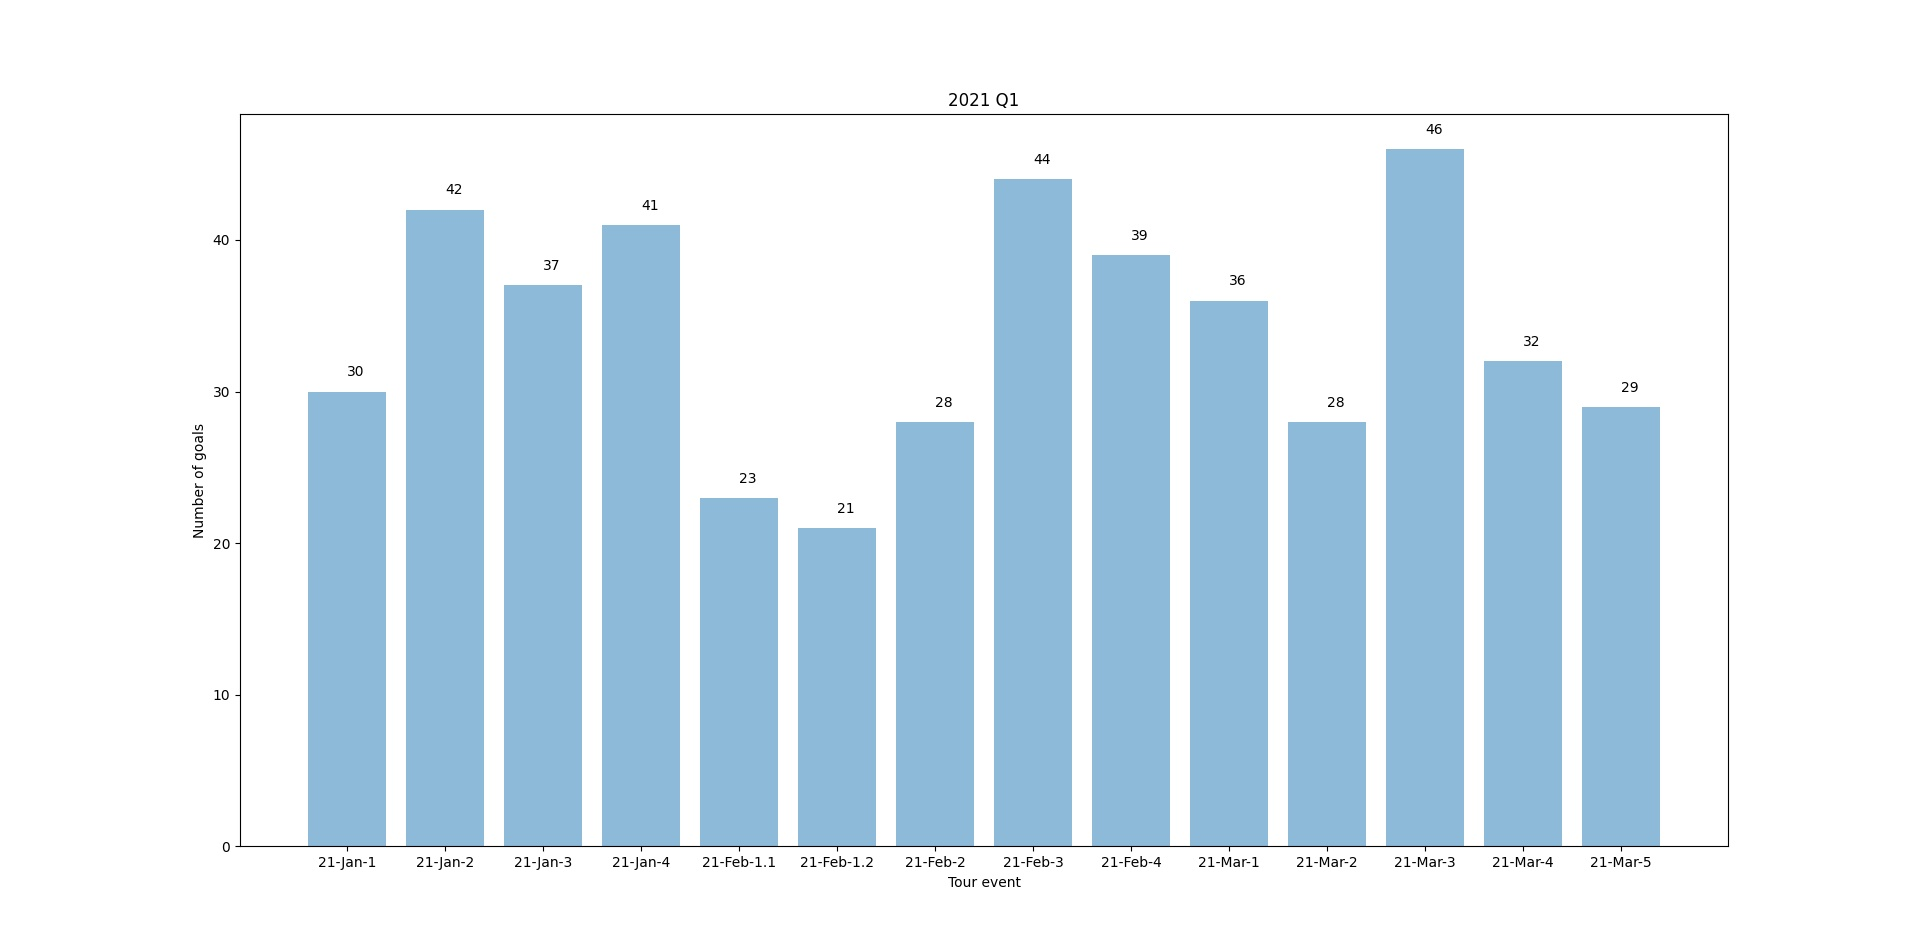
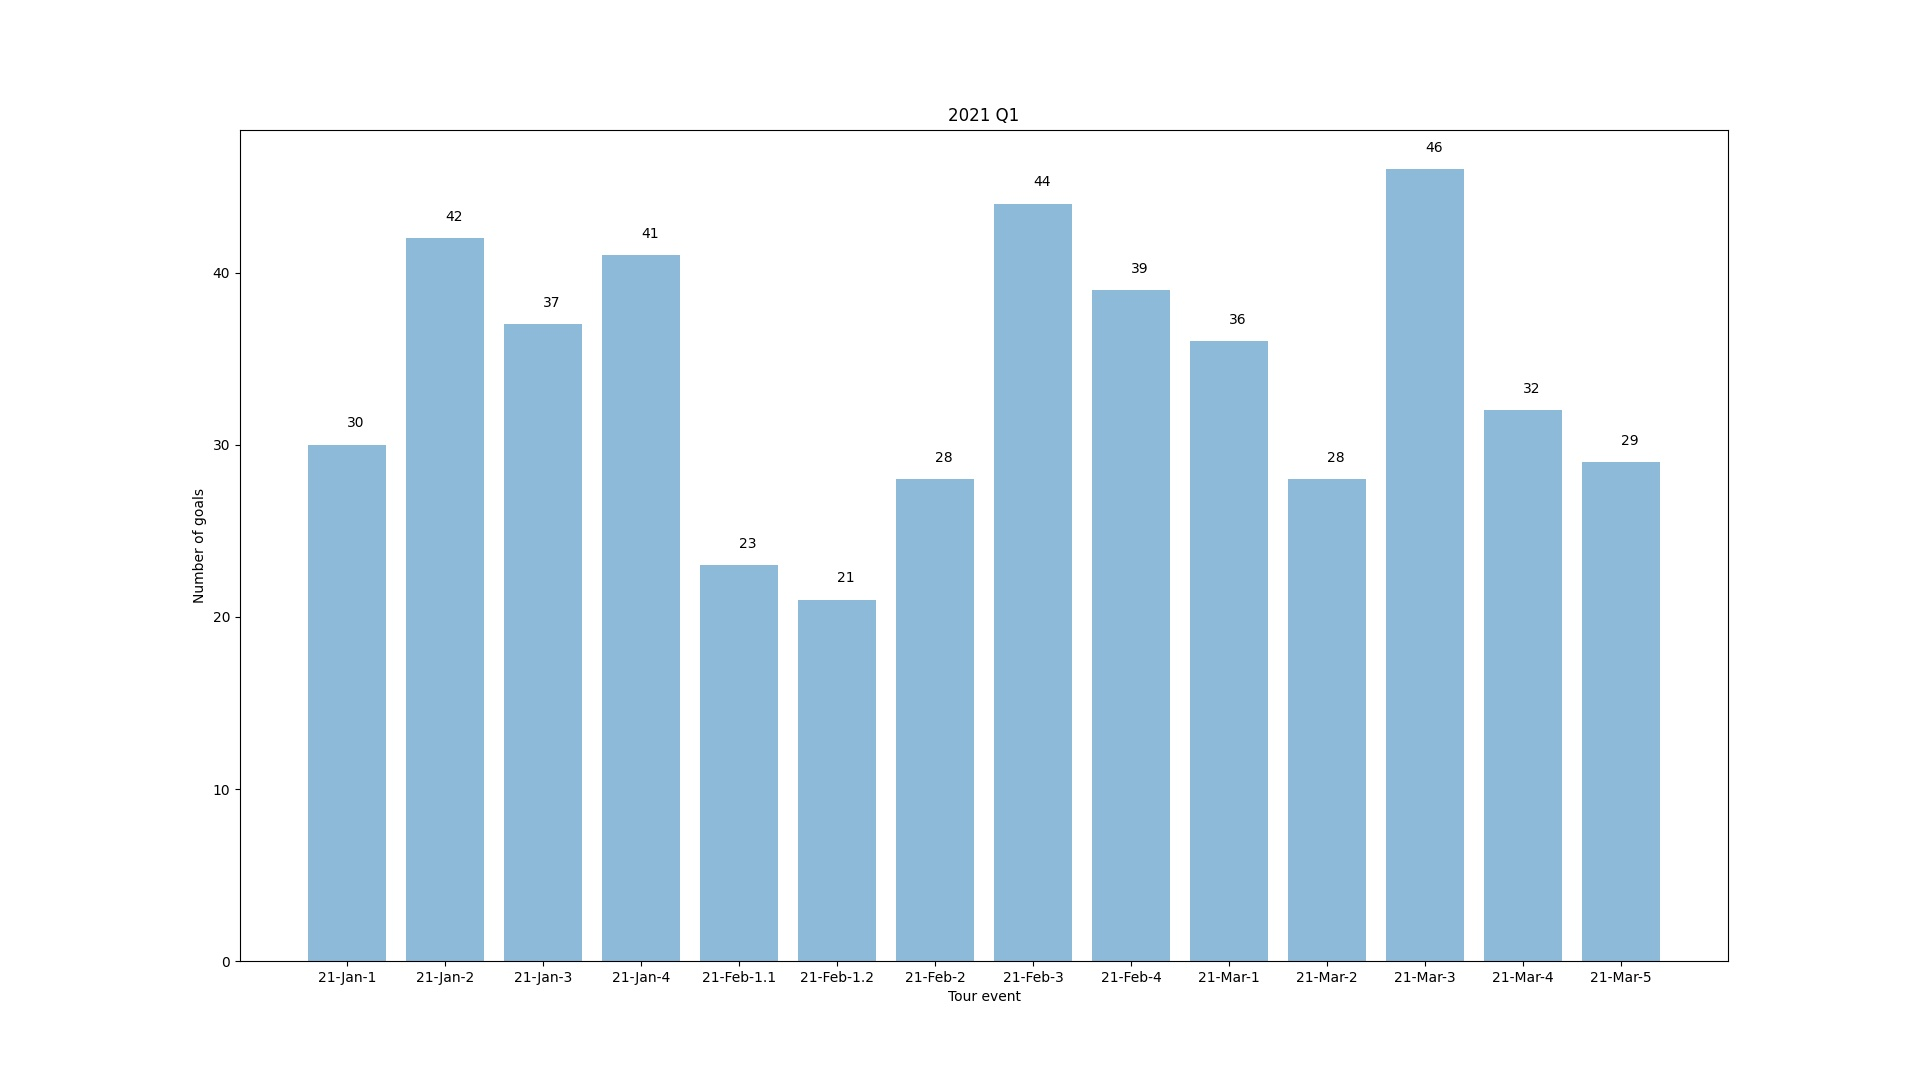
Every graph's size made to screen size

diff --git a/internal/testing/Graph/plot.py b/internal/testing/Graph/plot.py
@@ -1,0 +1,48 @@
+import numpy as np
+import matplotlib.pyplot as plt
+from tkinter import Tk
+from os import listdir as oslistdir
+from json import load as jsonload
+
+fl = oslistdir()
+json_file_list = []
+for i in fl:
+    if i.endswith(".json"):
+        json_file_list.append(i)
+for i in json_file_list:
+    f_name = str(i.split(".")[0])
+    json_dict_year = f_name.split("_")[1]
+    json_dict_quarter = f_name.split("_")[2]
+    print("\n--- " + f_name + " ---")
+    with open(file=str(i), mode='r', encoding="utf-8") as j_f:
+        j_dict = jsonload(j_f)
+        key_lists = []
+        value_lists = []
+        for key, value in j_dict.items():
+            key_lists.append(key)
+            value_lists.append(value)
+        x_pos = np.arange(len(key_lists))
+        y_pos = value_lists
+        plt.rcdefaults()
+        plt.bar(x_pos, y_pos, align='center', alpha=0.5)
+        plt.xticks(x_pos, key_lists)
+        plt_title = json_dict_year + " " + json_dict_quarter
+        plt.title(plt_title)
+        plt.ylabel('Number of goals')
+        plt.xlabel('Tour event')
+        for i, v in enumerate(y_pos):
+            plt.text(x=i, y=v+1, s=str(v))
+        plt_graph_filepath = "statistics/" + plt_title + ".jpg"
+        root = Tk()
+        screen_width = root.winfo_screenwidth()
+        screen_height = root.winfo_screenheight()
+        root.destroy()
+        figure = plt.gcf()
+        figure.set_size_inches(screen_width/100, screen_height/100)
+        plt.savefig(plt_graph_filepath, format='JPEG')
+        # mng = plt.get_current_fig_manager()
+        # mng.window.state("zoomed")
+        # plt.show()
+        plt.clf()
+        print("\nGraph saved at", plt_graph_filepath)
+
